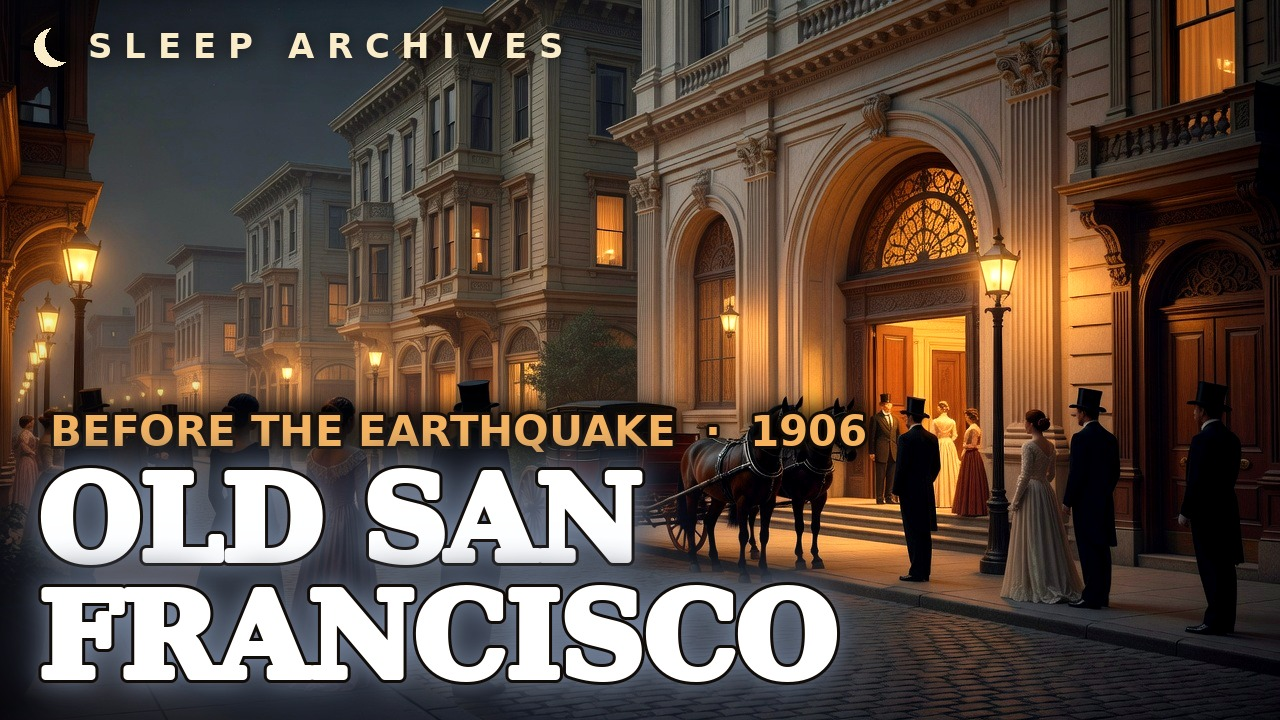
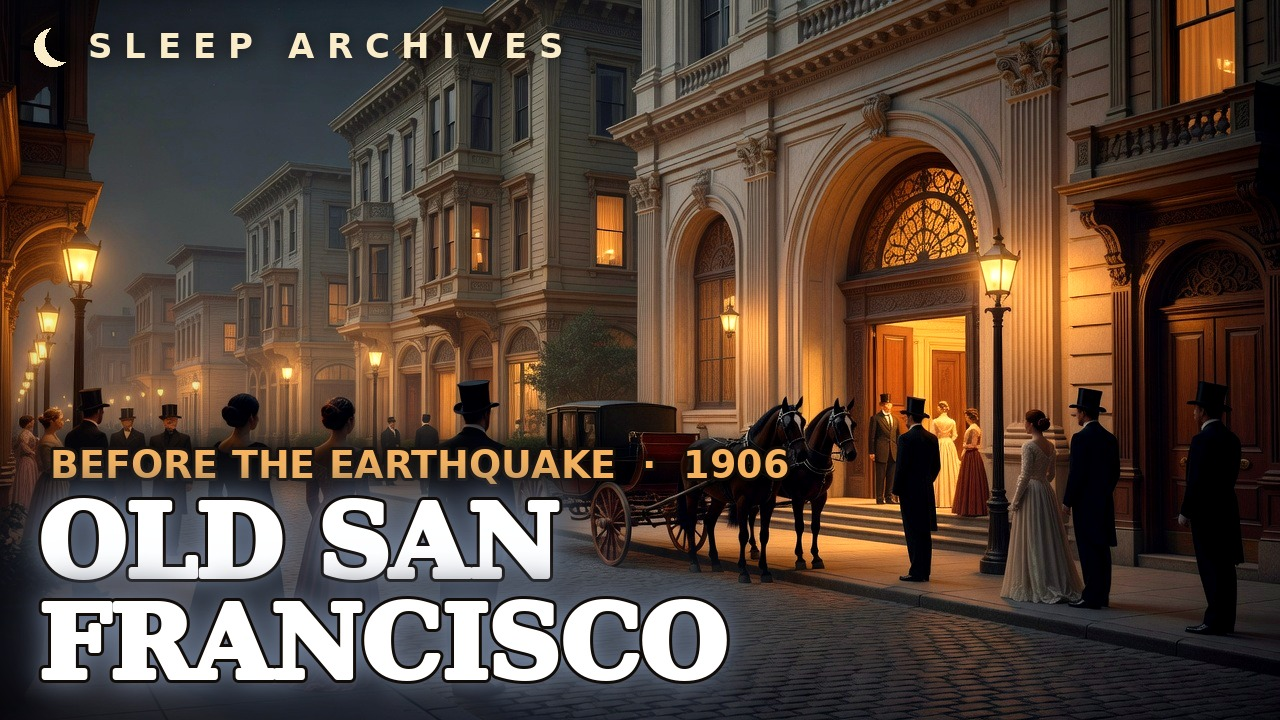
Thumbnail v2: text in the left half, clear of the big Studio duration label
Claude-Session: https://claude.ai/code/session_01VaMphJrxfQvYbaTu5iLr2G

Changed region(s): [[0.0, 0.55, 0.6875, 0.9778]]

diff --git a/tools/make_thumbnail.py b/tools/make_thumbnail.py
@@ -29,8 +29,8 @@ NIGHT_GLOW = (190, 215, 255)  # pale moonlight halo around the title
 LABEL = "SLEEP DOCUMENTARY"  # fixed series label at the bottom of every thumbnail
 AMBER = (246, 178, 92)
 MOON = (250, 236, 200)
-# v2 text stays in the left two thirds: YouTube puts the duration label bottom-right.
-HOOK_W = int(1280 * 0.64)
+# v2 text stays in the left half: YouTube (and Studio, much bigger) puts the duration label bottom-right.
+HOOK_W = int(1280 * 0.54)
 FONT_DIR = Path("/usr/share/fonts/truetype/dejavu")
 TITLE_FONT = FONT_DIR / "DejaVuSerif-Bold.ttf"
 SUB_FONT = FONT_DIR / "DejaVuSerif.ttf"

diff --git a/stories/YOUTUBE-STANDAARD.md b/stories/YOUTUBE-STANDAARD.md
@@ -161,7 +161,7 @@ relaxing history, sleep story, 432hz` + 4–6 onderwerp-tags.
   - Ontwerp: linksboven klein het logo (maantje + SLEEP ARCHIVES); linksonder een kleine
     amberkleurige regel (plaats · jaar) en daaronder de **hook** heel groot, wit, extra dik.
     Geen grote "SLEEP DOCUMENTARY"-balk meer: die ruimte is voor het beeld. De tekst blijft
-    in de linker ± 2/3, want rechtsonder zet YouTube de videolengte.
+    in de linker ± helft, want rechtsonder zet YouTube de videolengte (in de Studio-app heel groot).
   - **Hook**: 2–4 woorden die een gevoel of beleving geven, niet de hele titel. Bv.
     "Before the Ash", "The Last Quiet Night", "Old San Francisco", "Winter in a Viking Hut".
   - **Beeld**: warm en knus, met **mensen** in beeld (een figuur bij een lamp, vuur of
